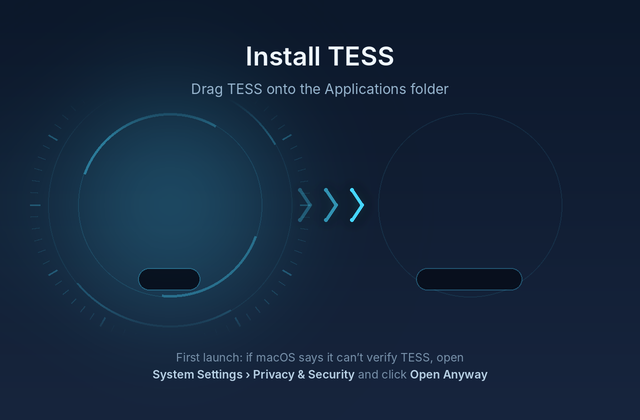
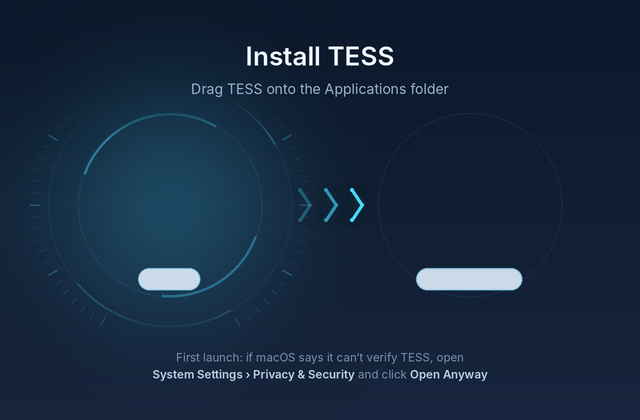
Installer: light name pills (Finder always draws names dark on picture backgrounds)
Claude-Session: https://claude.ai/code/session_01UKMjBYccsc8mzKjT8iuKSx

Changed region(s): [[0.625, 0.619, 0.8438, 0.7119], [0.2188, 0.619, 0.3125, 0.7119]]

diff --git a/scripts/dmg-background.py b/scripts/dmg-background.py
@@ -63,13 +63,14 @@ for cxv,op in [(310,0.30),(336,0.62),(362,1.0)]:
 glow=a.filter(ImageFilter.GaussianBlur(6*S))
 img.paste(glow,(0,0),glow); img.paste(glow,(0,0),glow); img.paste(a,(0,0),a)
 
-# Name pills: dark, so Finder (which judges the brightness right under each name) draws both names in white.
+# Name pills: light, because Finder always draws icon names in dark text on a picture background
+# (in Light and Dark Mode alike), and dark text needs a light backdrop on the navy artwork.
 p_=layer(); pd=ImageDraw.Draw(p_)
 # Centres measured from Finder on macOS 27: 13-point names sit 74 points below the icon centre
 # (and half a point left). Widths = text width + 16 points each side.
 for (cx_,cy_),wd in [((169.0,279.0),62),((469.0,279.0),106)]:
     pd.rounded_rectangle([(cx_-wd/2)*S,(cy_-11)*S,(cx_+wd/2)*S,(cy_+11)*S],radius=11*S,
-                         fill=(7,14,27,235),outline=(70,215,255,70),width=S)
+                         fill=(214,229,243,240),outline=(140,225,255,200),width=S)
 img.paste(p_,(0,0),p_)
 
 d=ImageDraw.Draw(img)
